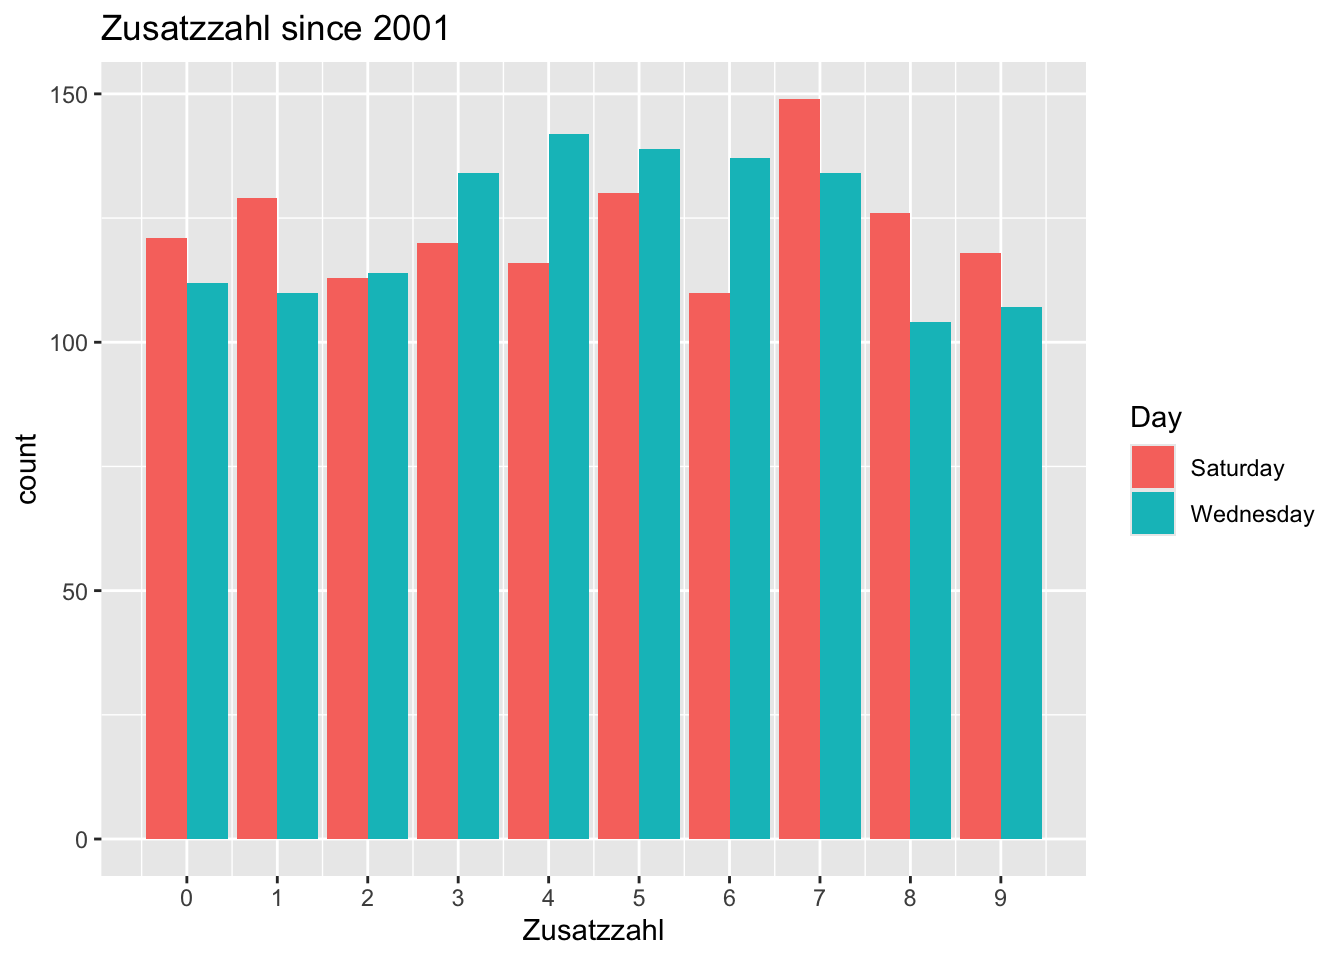
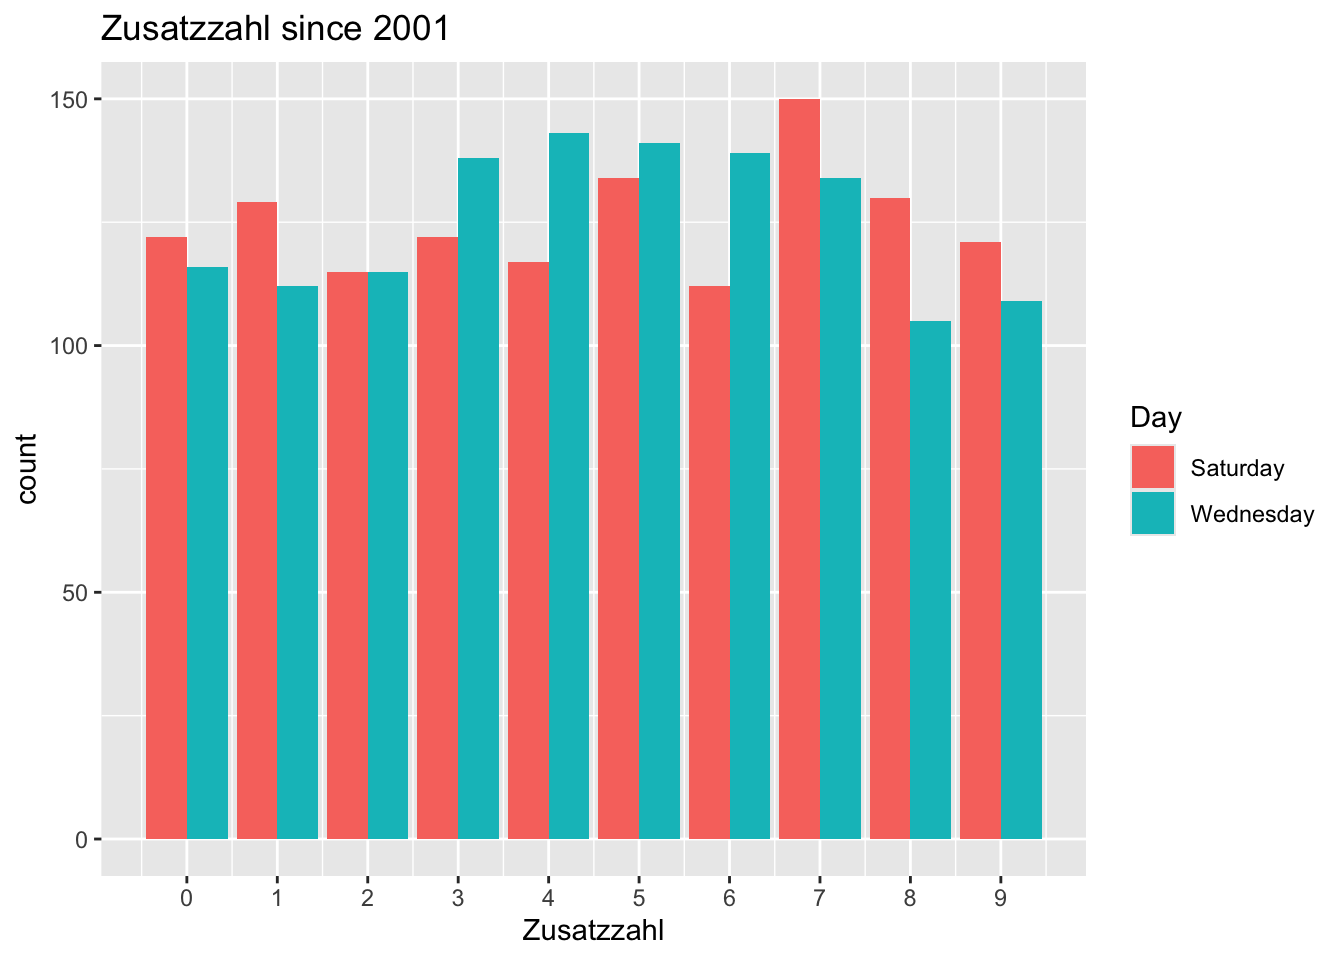
update README with 2024 data

diff --git a/README.md b/README.md
@@ -1,7 +1,7 @@
 
 <!-- README.md is generated from README.Rmd. Please edit that file -->
 
-# API for the lotto numbers of the german lottery (1955-2024)
+# API for the lotto numbers of the german lottery (1955-2025)
 
 [![Project Status: Active – The project has reached a stable, usable
 state and is being actively
@@ -23,38 +23,36 @@ languages. In the following two examples are shown (R and Python).
 
 ### R
 
-The package [tidyverse](https://www.tidyverse.org) is able to analyze
-the data very quickly with R.
+The package [dplyr](https://dplyr.tidyverse.org/) is able to analyze the
+data very quickly with R.
 
 In the next chunk, all data are read, filtered (just taking the lotto
 numbers) and grouped by the values and counted the number of appearance.
 We can see, that lotto number 6 is the most frequent number.
 
 ``` r
-library(tidyverse)
-library(jsonlite)
+data <- jsonlite::fromJSON("https://johannesfriedrich.github.io/LottoNumberArchive/Lottonumbers_tidy_complete.json")
 
-data <- fromJSON("https://johannesfriedrich.github.io/LottoNumberArchive/Lottonumbers_tidy_complete.json")
-
-lottonumbers_count <- data %>% 
-  filter(variable == "Lottozahl") %>% 
-  group_by(value) %>% 
-  summarise(count = n())
+lottonumbers_count <- data |> 
+  dplyr::filter(variable == "Lottozahl") |> 
+  dplyr::group_by(value) |> 
+  dplyr::summarise(count = dplyr::n())
 ```
 
 ``` r
-lottonumbers_count %>% 
-  arrange(desc(count)) %>% 
-  top_n(5)
+lottonumbers_count |> 
+  dplyr::arrange(dplyr::desc(count)) |>  
+  dplyr::top_n(5)
 ## Selecting by count
-## # A tibble: 5 × 2
+## # A tibble: 6 × 2
 ##   value count
 ##   <int> <int>
-## 1     6   652
-## 2    49   641
-## 3    32   626
-## 4    31   625
-## 5    33   625
+## 1     6   658
+## 2    49   645
+## 3    33   631
+## 4    32   630
+## 5    26   628
+## 6    31   628
 ```
 
 Now we want to summarise all numbers from 1-49 and their appearance.
@@ -74,14 +72,14 @@ introduced. Every Wednesday and Saturday the number chosen. The
 following graph shows the distribution of the Zusatzzahl.
 
 ``` r
-superzahl <- data %>% 
-  filter(variable == "Superzahl") %>% 
-  mutate(date = dmy(date),
+superzahl <- data |>  
+  dplyr::filter(variable == "Superzahl") |> 
+  dplyr::mutate(date = lubridate::dmy(date),
          Day = weekdays(date),
-         year = year(date)) %>% 
-  filter(year >= 2001) %>% 
-  group_by(value, Day) %>% 
-  summarise(count = n())
+         year = lubridate::year(date)) |> 
+  dplyr::filter(year >= 2001) |> 
+  dplyr::group_by(value, Day) |>  
+  dplyr::summarise(count = dplyr::n())
 ## `summarise()` has grouped output by 'value'. You can override using the
 ## `.groups` argument.
 ```
@@ -96,28 +94,26 @@ ggplot(superzahl, aes(value, count, fill = Day)) +
 
 <img src="README_figs/README-unnamed-chunk-5-1.png" width="672" style="display: block; margin: auto;" />
 
-What were the numbers most chosen in 2023?
+What were the numbers most chosen in 2024?
 
 ``` r
-data %>% 
-  filter(variable == "Lottozahl") %>% 
-  mutate(date = dmy(date),
-         year = year(date)) %>% 
-  filter(year == 2023) %>% 
-  group_by(value) %>% 
-  summarise(count = n()) %>% 
-  slice_max(count, n = 5)
-## # A tibble: 8 × 2
+data |>  
+  dplyr::filter(variable == "Lottozahl") |> 
+  dplyr::mutate(date = lubridate::dmy(date),
+         year = lubridate::year(date)) |>
+  dplyr::filter(year == 2024) |> 
+  dplyr::group_by(value) |>  
+  dplyr::summarise(count = dplyr::n()) |> 
+  dplyr::slice_max(count, n = 5)
+## # A tibble: 6 × 2
 ##   value count
 ##   <int> <int>
-## 1    19    19
-## 2    22    18
-## 3    33    18
-## 4    25    17
-## 5    23    16
-## 6    28    16
-## 7    42    16
-## 8    43    16
+## 1     8    24
+## 2     5    22
+## 3     9    22
+## 4    40    22
+## 5    10    18
+## 6    30    18
 ```
 
 ### Python
@@ -135,10 +131,10 @@ res = data[data.variable == "Lottozahl"].groupby("value")["value"].count().sort_
 
 print(res.head(5))
 ## value
-## 6     652
-## 49    641
-## 32    626
-## 33    625
-## 31    625
+## 6     658
+## 49    645
+## 33    631
+## 32    630
+## 31    628
 ## Name: value, dtype: int64
 ```
